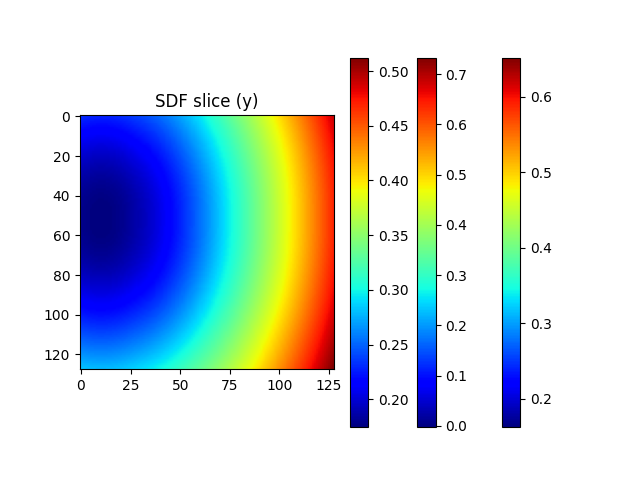
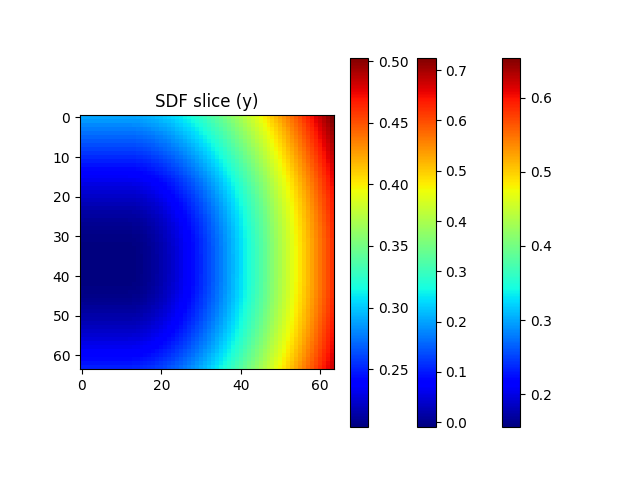
finished project

diff --git a/sdf_visualization.py b/sdf_visualization.py
@@ -112,9 +112,9 @@ Returns:
 """
 def visualize_workspace(mug_transform, workspace_bound=None, workspace_resolution=64, display_2d_slices=True, select_specific_dist=False, d_star=0.01, eps=0.002, trajectory=None, obstacle=False, obst_transform=None):
     rotation_matrix = mug_transform[:3, :3]
-    rot_90 = Rotation.from_euler('XYZ',[0,0,-90], degrees=True).as_matrix()
+    rot_90 = Rotation.from_euler('xyz',[0,0,90], degrees=True).as_matrix()
     # rotation_matrix = rotation_matrix@rot_90
-    rotation_xyz = Rotation.from_matrix(rotation_matrix).as_euler('XYZ', degrees=True)
+    rotation_xyz = Rotation.from_matrix(rotation_matrix).as_euler('xyz', degrees=True)
     translation_vector = mug_transform[:3, 3]
     if translation_vector[0] > 0.5:
         # change into meters
@@ -139,24 +139,27 @@ def visualize_workspace(mug_transform, workspace_bound=None, workspace_resolutio
     # add the obstacle if there is one
     if obstacle==True:
         print("Adding obstacle to visual)")
-        obst_transform[:3,3] = obst_transform[:3,3]/1000
-        obst_transform = numpy.linalg.inv(mug_transform)@obst_transform
-        obst_t = obst_transform[:3,3]
-        obst_rot = obst_transform[:3,:3]
-        obst_rot = obst_rot@rot_90
-        # if obst_t[0] > 0.5:q
-        #     # change into meters
-        #     for i in range(3):
-        #         obst_t[i] = obst_t[i] / 1000
-        obst_xyz = Rotation.from_matrix(obst_rot).as_euler('XYZ', degrees=True)
+        obst_transform_1 = obst_transform.copy()
+        obst_transform_1[:3,3] = obst_transform[:3,3]/1000
+        # obst_translation = obst_transform[:3,3]/1000
+        obst_transform_1 = numpy.linalg.inv(mug_transform.copy())@obst_transform_1.copy()
+        obst_t = obst_transform_1[:3,3]
+        obst_rot = obst_transform_1[:3,:3]
+        obst_rot = numpy.linalg.inv(obst_rot)@rot_90
+        if obst_t[0] > 0.5:
+            # change into meters
+            for i in range(3):
+                obst_t[i] = obst_t[i] / 1000
+        obst_xyz = Rotation.from_matrix(obst_rot).as_euler('xyz', degrees=True)
 
         obstacle_mesh = o3d.io.read_triangle_mesh("Obstacle.stl")
         obstacle_legacy = o3d.t.geometry.TriangleMesh.from_legacy(obstacle_mesh)
         obstacle_mesh.compute_vertex_normals()
         # obstacle_legacy.scale(100.0, [0,0,0])
-        # obstacle_mesh.rotate(obst_rot)
+        obstacle_mesh.rotate(obst_rot)
 
         obstacle_mesh.translate(obst_t)
+        # obstacle_mesh.rotate(obst_xyz)
         _ = scene.add_triangles(obstacle_legacy)
         geom_list.append(obstacle_mesh)
 
@@ -202,25 +205,25 @@ def visualize_workspace(mug_transform, workspace_bound=None, workspace_resolutio
     geom_list.append(pcd)
     geom_list.append(mesh_legacy)
 
-    # add the obstacle if there is one
-    if obstacle==True:
-        print("Adding obstacle to visual)")
-        obst_t = obst_transform[:3,3]
-        obst_rot = obst_transform[:3,:3]
-        if obst_t[0] > 0.5:
-            # change into meters
-            for i in range(3):
-                obst_t[i] = obst_t[i] / 1000
-        obst_xyz = Rotation.from_matrix(obst_rot).as_euler('XYZ', degrees=True)
+    # # add the obstacle if there is one
+    # if obstacle==True:
+    #     print("Adding obstacle to visual)")
+    #     obst_t = obst_transform[:3,3]
+    #     obst_rot = obst_transform[:3,:3]
+    #     if obst_t[0] > 0.5:
+    #         # change into meters
+    #         for i in range(3):
+    #             obst_t[i] = obst_t[i] / 1000
+    #     obst_xyz = Rotation.from_matrix(obst_rot).as_euler('XYZ', degrees=True)
 
-        obstacle_mesh = o3d.io.read_triangle_mesh("Obstacle.stl")
-        obstacle_legacy = o3d.t.geometry.TriangleMesh.from_legacy(obstacle_mesh)
-        obstacle_mesh.compute_vertex_normals()
-        # obstacle_legacy.scale(1000.0, [0,0,0])
-        obstacle_mesh.rotate(obst_rot)
-        obstacle_mesh.translate(obst_t)
-        _ = scene.add_triangles(obstacle_legacy)
-        geom_list.append(obstacle_mesh)
+    #     obstacle_mesh = o3d.io.read_triangle_mesh("Obstacle.stl")
+    #     obstacle_legacy = o3d.t.geometry.TriangleMesh.from_legacy(obstacle_mesh)
+    #     obstacle_mesh.compute_vertex_normals()
+    #     # obstacle_legacy.scale(1000.0, [0,0,0])
+    #     obstacle_mesh.rotate(obst_rot)
+    #     obstacle_mesh.translate(obst_t)
+    #     _ = scene.add_triangles(obstacle_legacy)
+    #     geom_list.append(obstacle_mesh)
 
     o3d.visualization.draw_geometries(geom_list)
 

diff --git a/objective.py b/objective.py
@@ -70,6 +70,7 @@ class objective_optimizer:
 
         plt.clf()
         # plt.imshow(ans['t_hit'].numpy())
+        plt.title('Raycasting Scene')
         plt.imshow(np.abs(ans['primitive_normals'].numpy()))
         plt.show()
         # plt.clf()